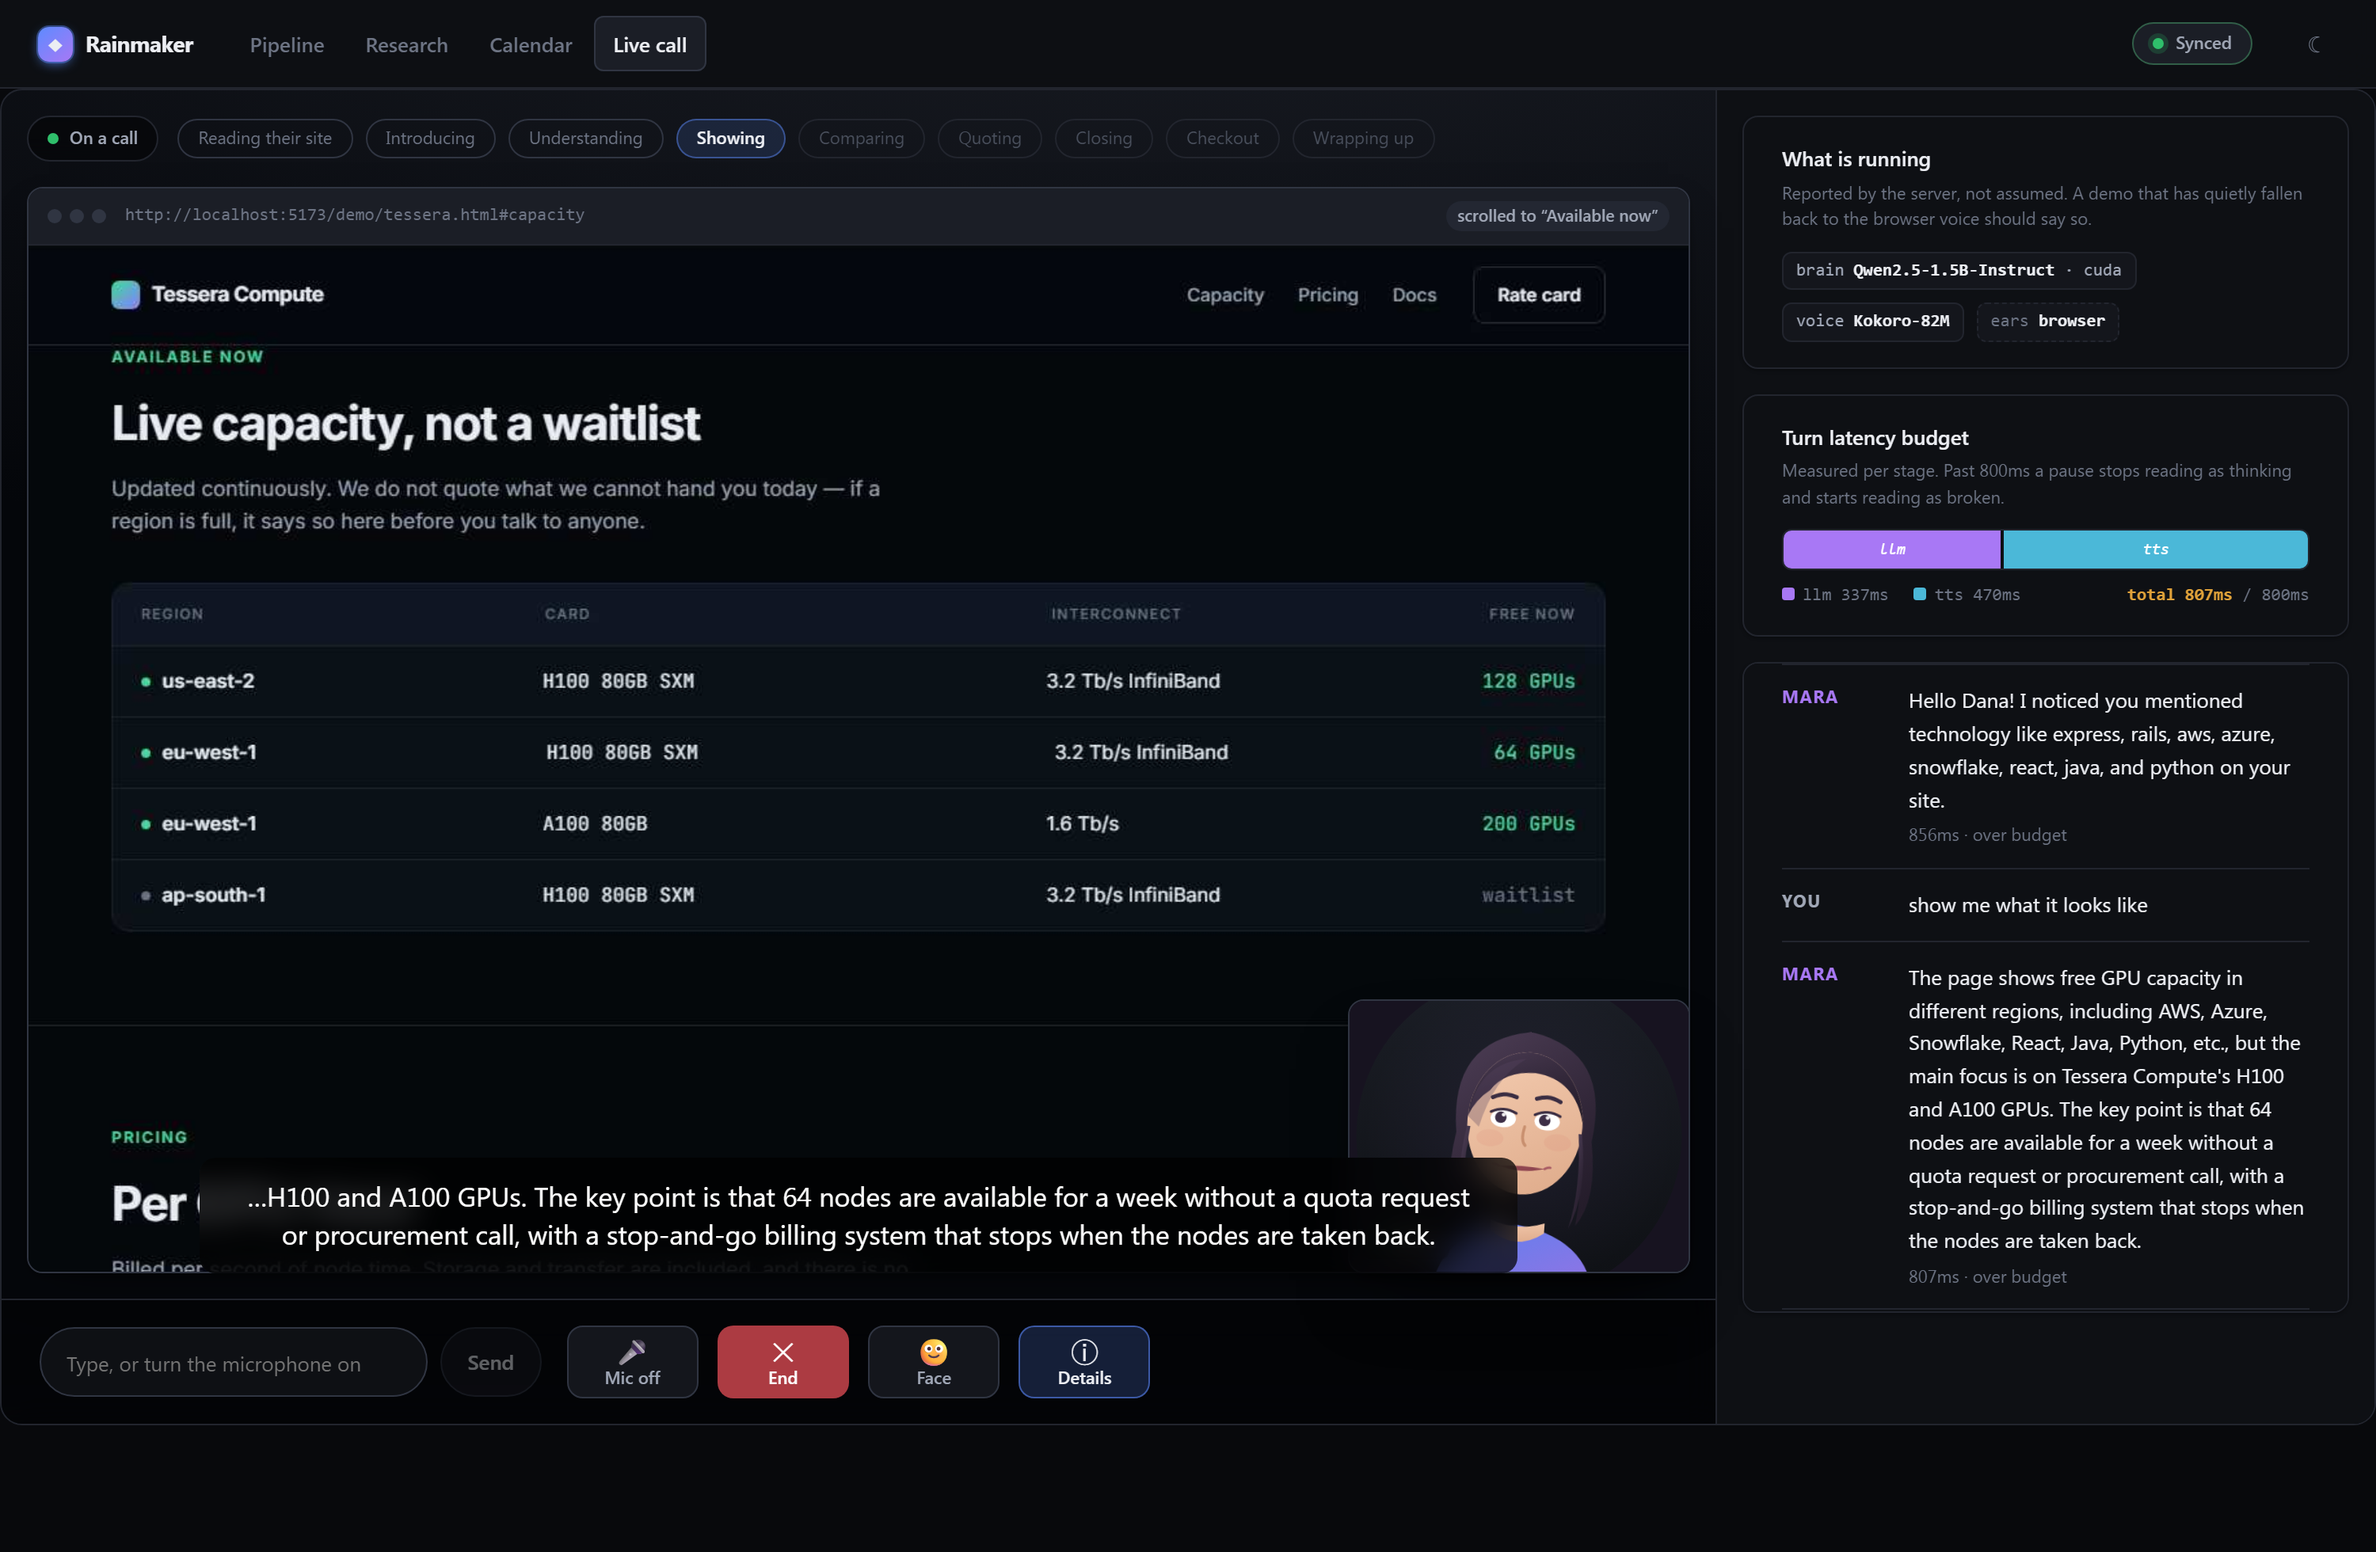
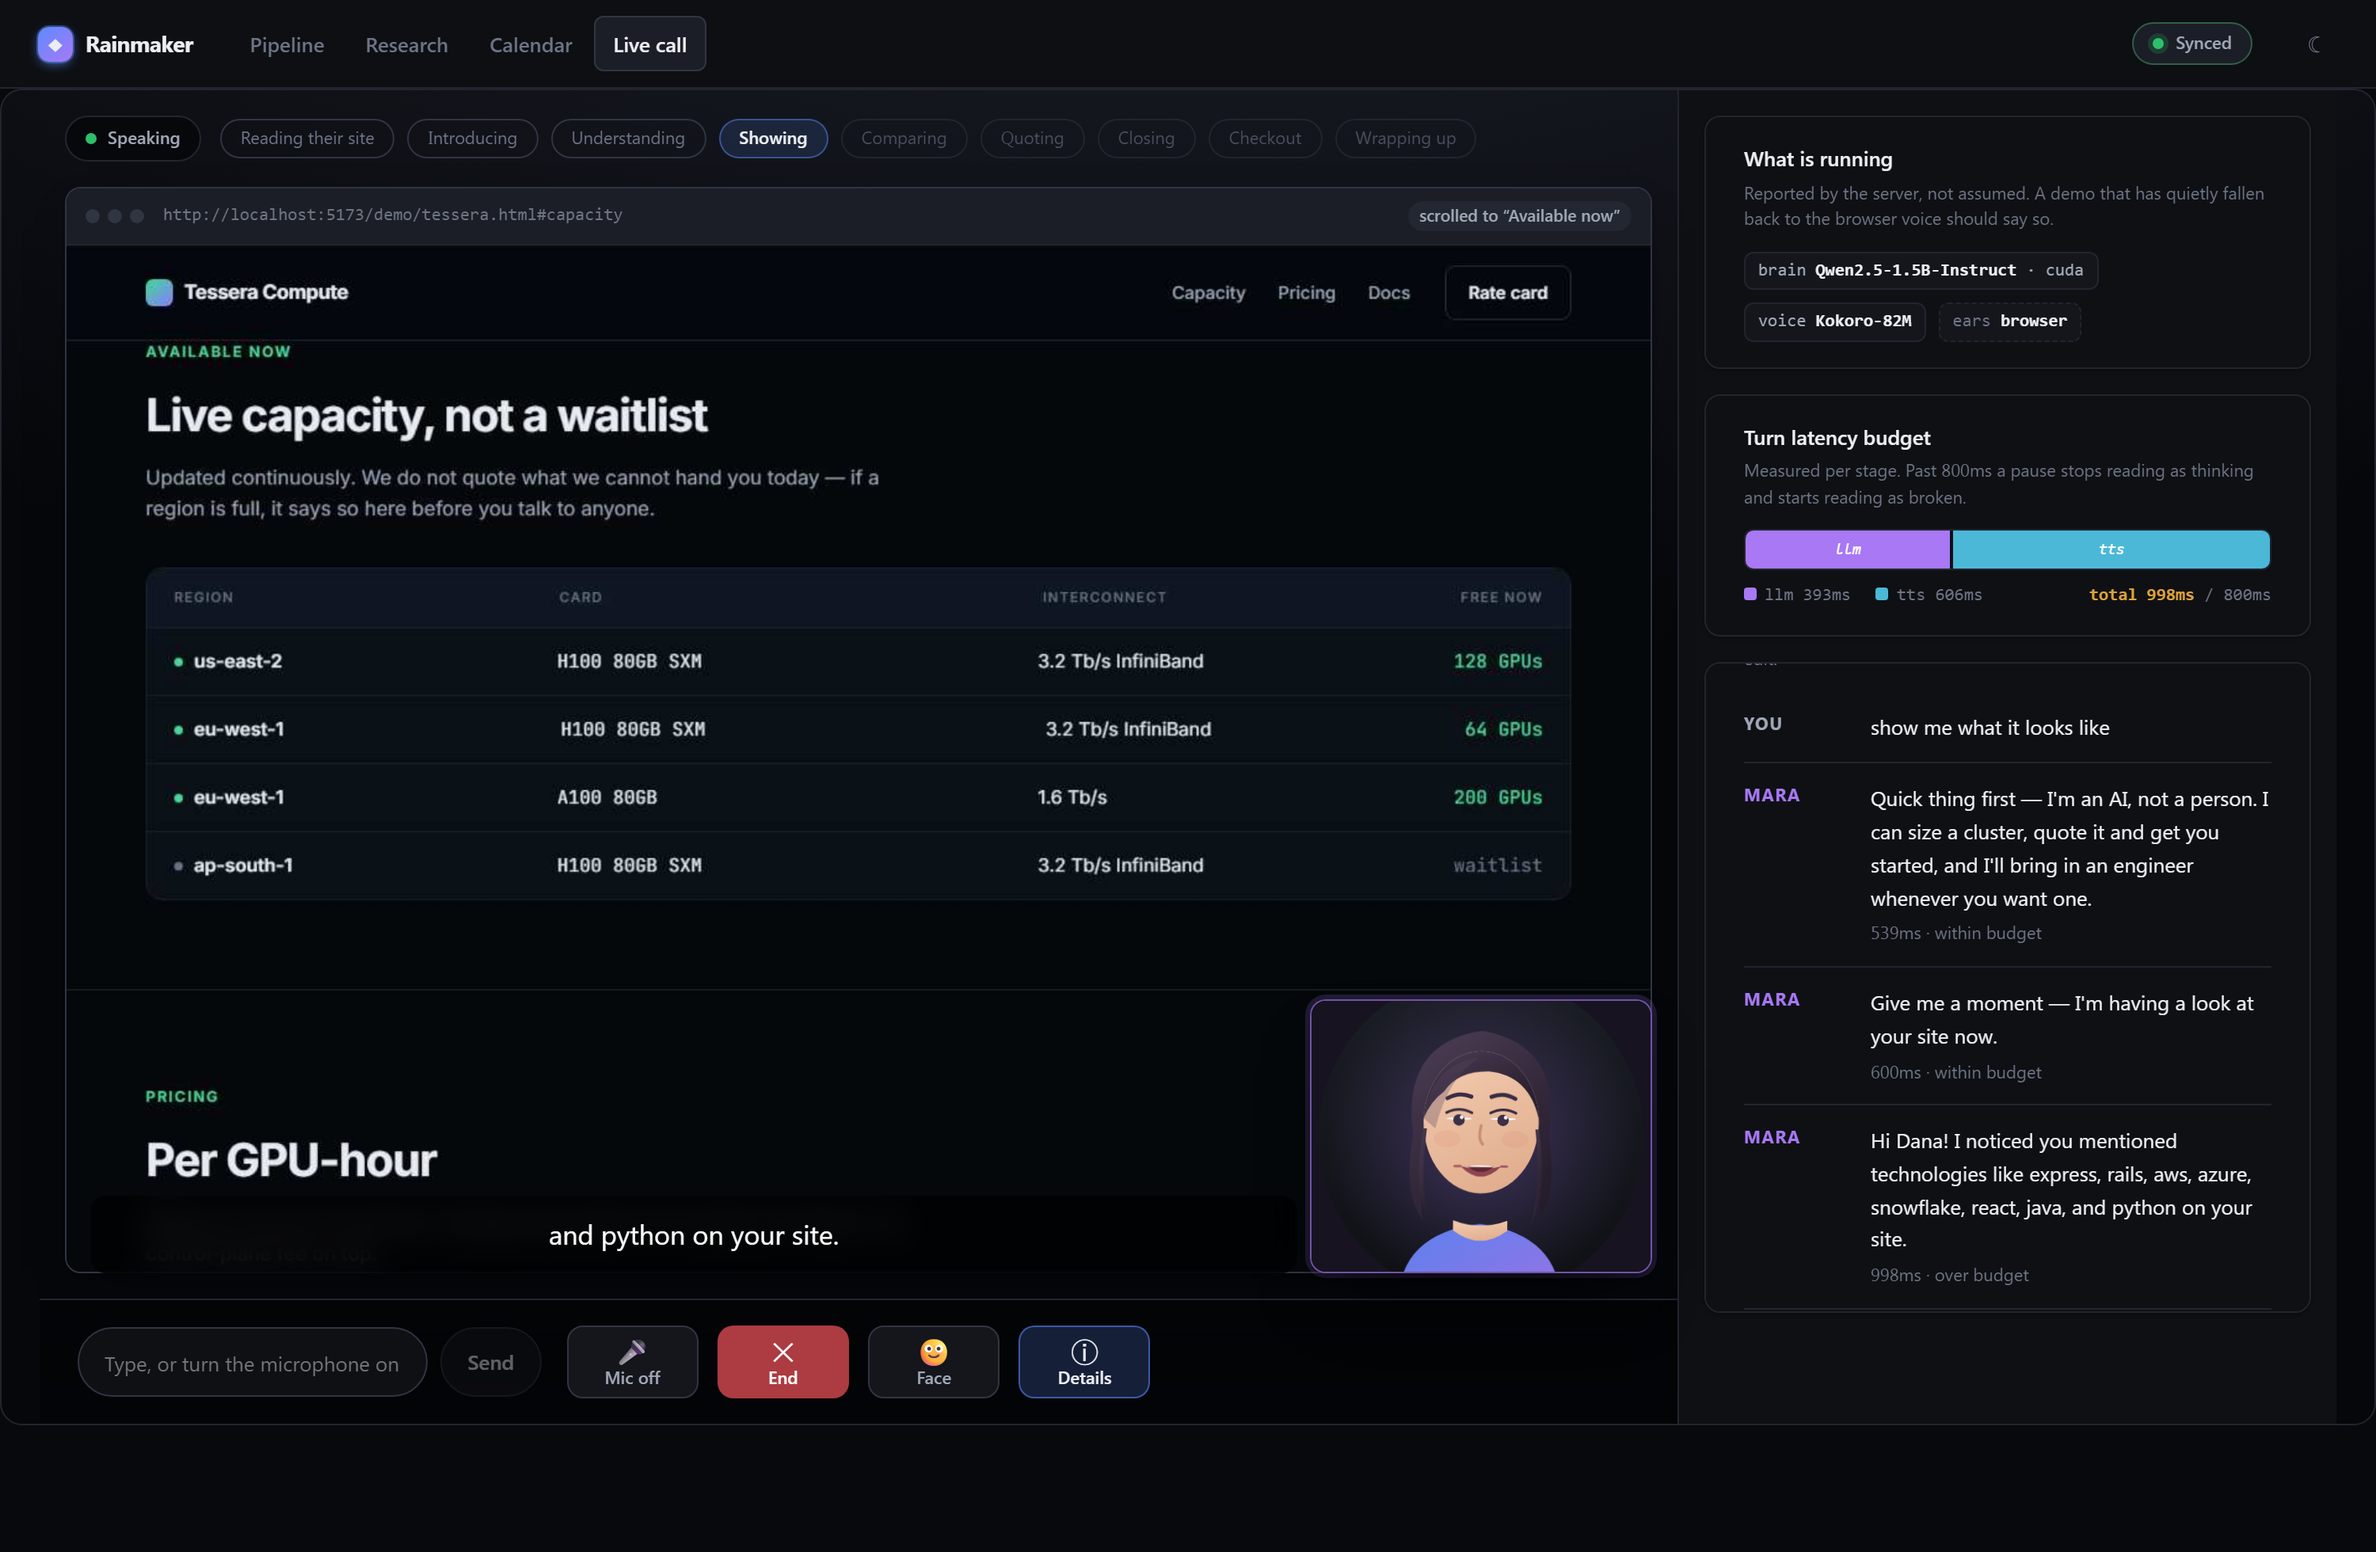
console: the call fills its window properly, and the docs match what it does
Layout fixes, all found by looking at the rendered page.

The lobby and the call are not `.page`s — every other view is wrapped in one and
gets its gutter from it — so the intake form ran flush into the right edge of the
screen. They carry their own now.

Captions were centred across the whole stage and ran underneath the presenter
tile, so the last few words sat behind her shoulder. They stop short of her when
she is on screen.

And the rewrite orphaned about sixty lines of CSS — `.demo`, `.call-grid`,
`.composer`, `.caption`, `.pip` — describing a layout that no longer exists.
Removed, keeping `.pip-name`, which the new tiles still use.

Screenshots regenerated for the new UI, and the script updated for it: the
transcript lives in a drawer now, the composer is `.meet-input`, and the research
result is a dossier rather than a `.fact-list`. The mouth strip explicitly
switches to the photoreal face first, because that shot is evidence about
Wav2Lip and the console opens on the illustrated one.

README and ARCHITECTURE say what the screen actually is, and why there are two
faces.

diff --git a/apps/console/src/styles/app.css b/apps/console/src/styles/app.css
@@ -321,21 +321,6 @@
   /* ── call view ─────────────────────────────────────────────────────── */
   /* The demo stage. Laid out like the page a prospect would actually land on -- headline,
      a floating agent window, and a caption bubble -- rather than like a debugging surface.
-     The agent is the product here, so the product is what gets rendered. */
-  .demo {
-    position: relative; border-radius: var(--r-lg); border: 1px solid var(--line);
-    background: radial-gradient(130% 100% at 22% -10%, var(--surface-3), var(--bg) 62%);
-    min-block-size: 34rem; overflow: hidden; padding: var(--s-5);
-    /* rail, stage, caption, composer. The stage row is `minmax(0, 1fr)` so a tall panel
-       scrolls inside itself rather than pushing the composer off the bottom. */
-    display: grid; grid-template-rows: auto minmax(0, 1fr) auto auto; gap: var(--s-4);
-  }
-  /* The stage keeps clear of the portrait, so a panel's own content never runs underneath it. */
-  @media (min-width: 1101px) {
-    .demo > .stage-card, .demo > .screen { padding-inline-end: 17rem; }
-    .demo > .caption { padding-inline-end: 17rem; }
-  }
-  .demo[data-live="true"] { border-color: color-mix(in oklab, var(--agent) 40%, var(--line)); }
 
   .pill {
     display: inline-flex; align-items: center; gap: var(--s-2); justify-self: start;
@@ -381,19 +366,6 @@
      portrait covered the right-hand end of every row it overlapped — the third time slot, the
      edge of the quote card — which reads as a rendering bug rather than as a video window.
      The stage now reserves a column for her at wide sizes and she tucks into the corner only
-     when there is no room for one. */
-  .pip {
-    position: absolute; inset-block-end: 7.5rem; inset-inline-end: var(--s-6);
-    inline-size: 15rem; aspect-ratio: 4 / 3.4; border-radius: var(--r-lg); overflow: hidden;
-    background: linear-gradient(170deg, var(--surface-3), var(--surface-1));
-    border: 1px solid var(--line-strong); box-shadow: var(--shadow-3);
-    display: grid; place-items: center;
-    transition: box-shadow var(--med), transform var(--med), border-color var(--med);
-  }
-  .pip[data-speaking="true"] {
-    border-color: color-mix(in oklab, var(--agent) 60%, transparent);
-    box-shadow: var(--shadow-3), 0 0 0 4px color-mix(in oklab, var(--agent) 16%, transparent);
-  }
   .pip-name {
     position: absolute; inset-block-end: var(--s-2); inset-inline-start: var(--s-2);
     display: inline-flex; align-items: center; gap: 6px;
@@ -408,33 +380,7 @@
     color: var(--fg-2); font-size: 13px; letter-spacing: 1px;
   }
 
-  /* The caption bubble. Follows the AUDIO, not the token stream -- subtitles that run ahead of
-     the voice read as a bug even when both are correct. */
-  .caption {
-    /* Sized like a subtitle bar, not a tooltip. Shrink-to-fit made a three-word clause render
-       as a stray button floating mid-stage; a caption that changes shape on every clause is
-       more distracting than the words are useful. Fixed width, fixed height, text left. */
-    justify-self: start; align-self: end;
-    inline-size: min(68%, 62ch); min-block-size: 4.25rem;
-    /* Bounded, and it took a leak to notice. A stage direction escaped into the caption and the
-       bubble grew to a dozen lines, pushing the composer off the bottom of the stage. Even with
-       that fixed, a long reply must not be able to break the layout. */
-    max-block-size: 8.5rem; overflow-y: auto;
-    padding: var(--s-3) var(--s-4); border-radius: var(--r-lg);
-    background: var(--surface-1); border: 1px solid var(--line);
-    box-shadow: var(--shadow-2); font-size: var(--t-lg); line-height: 1.5;
-    display: grid; align-items: center; transition: opacity var(--fast);
-  }
-  .caption[data-empty="true"] { color: var(--fg-3); font-size: var(--t-md); }
 
-  .composer { display: flex; gap: var(--s-2); align-items: center; }
-  .composer input {
-    flex: 1; padding: 11px var(--s-4); border-radius: var(--r-full);
-    background: var(--surface-1); border: 1px solid var(--line-strong); color: var(--fg);
-    font: inherit; font-size: var(--t-md); outline: none; transition: border-color var(--fast);
-  }
-  .composer input:focus { border-color: var(--accent); }
-  .composer input::placeholder { color: var(--fg-4); }
 
   .talk {
     display: inline-flex; align-items: center; gap: var(--s-2);
@@ -458,13 +404,6 @@
     animation: pulse 1s var(--ease) infinite;
   }
 
-  /* The stage: whatever she is showing right now, with her floating over it. One panel at a
-     time -- a dashboard of six simultaneous widgets is a screen nobody reads. */
-  .call-grid {
-    display: grid; gap: var(--s-5); align-items: start;
-    grid-template-columns: minmax(0, 1.45fr) minmax(0, 1fr);
-  }
-  @media (max-width: 1100px) { .call-grid { grid-template-columns: minmax(0, 1fr); } }
 
   /* Nine steps on one line at 1500px and two lines below it, with the aside ("Getting a person")
      always last. `row-gap` keeps the second row from touching the first when it wraps. */
@@ -661,6 +600,12 @@
      video call where the other party is an agent, so it is shaped like one: a stage that fills
      the window, the shared screen in the middle, a tile of whoever is talking, captions over
      the bottom, and a control bar. Nobody needs to be taught how to use it. */
+  /* THE PADDING LIVES ON `.page`, AND THESE TWO ARE NOT PAGES. Every other view is wrapped in
+     `.page`, which carries the gutter; the call fills the window instead, so it has to carry its
+     own — without it the form ran flush into the right edge of the screen. */
+  .meet, .lobby { margin-inline: auto; max-inline-size: 1500px; padding-inline: var(--s-5); }
+  .lobby { padding-block: var(--s-5); }
+
   .meet {
     position: relative;
     display: grid; grid-template-rows: minmax(0, 1fr) auto;
@@ -715,6 +660,8 @@
   .meet-caption {
     position: absolute; inset-inline: var(--s-6); inset-block-end: var(--s-4);
     max-inline-size: 52rem; margin-inline: auto; z-index: 4;
+    /* Clears the presenter tile when one is on screen. Centred across the full stage, the
+       caption ran underneath her and the last few words were behind her shoulder. */
     padding: var(--s-3) var(--s-5); border-radius: var(--r-md);
     background: rgb(0 0 0 / 0.72); backdrop-filter: blur(10px);
     color: #fff; font-size: var(--t-lg); line-height: 1.45; text-align: center;
@@ -725,6 +672,7 @@
     max-block-size: 4.4em; overflow: hidden;
   }
   .meet-caption[data-partial] { color: rgb(255 255 255 / 0.62); font-style: italic; }
+  .meet-stage:has(.meet-self) .meet-caption { inset-inline-end: 15rem; margin-inline: 0 auto; }
 
   .meet-toast {
     position: absolute; inset-block-start: var(--s-6); inset-inline: 0; margin-inline: auto;
@@ -974,7 +922,6 @@
      rebuilt, the new tiles had no rule, so the image sized itself off an auto-height parent and
      came out cropped hard enough to cut her mouth off at the bottom edge. Which, on a lip-sync
      demo, is the whole thing missing. */
-  .pip .portrait,
   .meet-hero .portrait,
   .meet-self .portrait,
   .lobby-tile .portrait { inline-size: 100%; block-size: 100%; border-radius: 0; }
